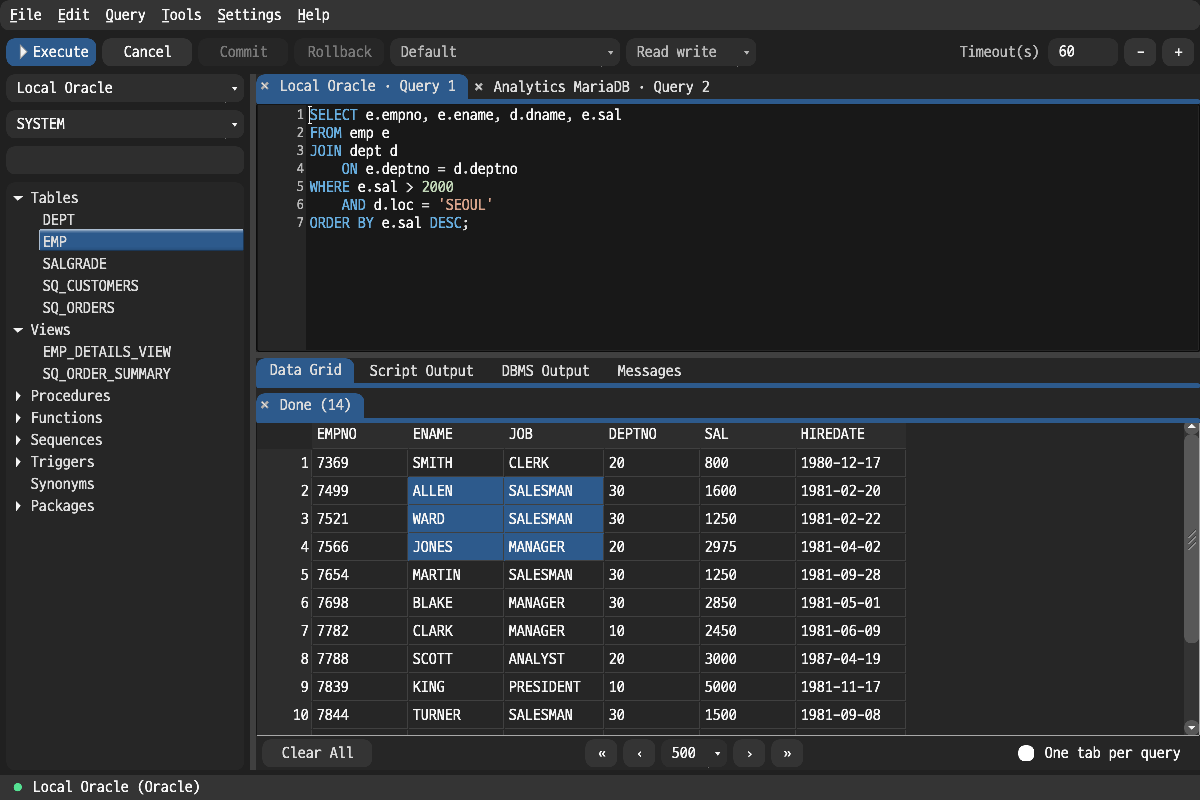
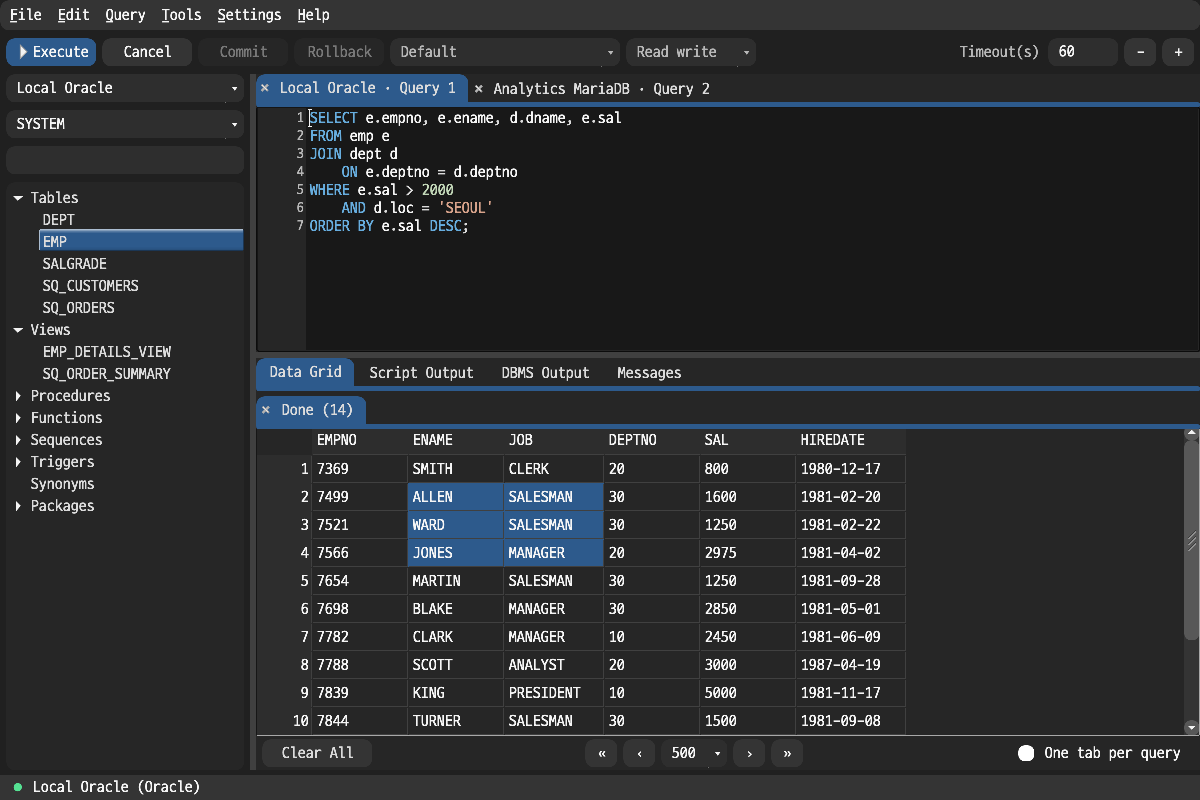
style: unify tab header heights

diff --git a/src/bin/capture_feature_tour.rs b/src/bin/capture_feature_tour.rs
@@ -10,7 +10,9 @@ use fltk::{
 use space_query::{
     db::{ColumnInfo, QueryResult},
     ui::{
-        apply_global_default_font, constants::BUTTON_HEIGHT, log_viewer::LogViewerDialog,
+        apply_global_default_font,
+        constants::{BUTTON_HEIGHT, TAB_HEADER_HEIGHT},
+        log_viewer::LogViewerDialog,
         profile_by_name, show_settings_dialog, theme, ConnectionDialog, IntellisensePopup,
         MainWindow, QueryHistoryDialog, SignatureLabel, SignatureOverload, SignaturePopup,
     },
@@ -172,11 +174,32 @@ fn verify_control_heights(group: fltk::group::Group, context: &str) {
     }
 }
 
+fn verify_tab_header_heights(group: fltk::group::Group, context: &str) {
+    for child in group.into_iter() {
+        if let Some(tabs) = fltk::group::Tabs::from_dyn_widget(&child) {
+            for tab_child in tabs.clone().into_iter() {
+                let actual_height = tab_child.y().saturating_sub(tabs.y());
+                if actual_height != TAB_HEADER_HEIGHT {
+                    fail(format!(
+                        "{context} tab {:?} has header height {actual_height}, expected {TAB_HEADER_HEIGHT}",
+                        tab_child.label()
+                    ));
+                }
+            }
+        }
+
+        if let Some(group) = child.as_group() {
+            verify_tab_header_heights(group, context);
+        }
+    }
+}
+
 fn capture_active_dialog(expected_label: &str, path: &str) {
     let mut window = window_by_label(expected_label)
         .unwrap_or_else(|| fail(format!("missing dialog: {expected_label}")));
     if let Some(group) = window.as_group() {
-        verify_control_heights(group, expected_label);
+        verify_control_heights(group.clone(), expected_label);
+        verify_tab_header_heights(group, expected_label);
     }
     let (data, width, height) = capture_complete_rgb(&mut window);
     save_ppm(path, &data, width, height);
@@ -448,6 +471,7 @@ fn capture_object_browser(main_window: &mut MainWindow) {
         .as_group()
         .unwrap_or_else(|| fail("main window group is missing"));
     verify_control_heights(main_group.clone(), "main window");
+    verify_tab_header_heights(main_group.clone(), "main window");
     let mut filter = visible_filter_input(main_group.clone())
         .unwrap_or_else(|| fail("visible object browser filter input is missing"));
     let mut scope = None;

diff --git a/src/ui/constants.rs b/src/ui/constants.rs
@@ -17,7 +17,7 @@ pub const TRANSACTION_ISOLATION_CHOICE_WIDTH: i32 = 230;
 /// Width for the transaction access mode selector in the query toolbar.
 pub const TRANSACTION_ACCESS_CHOICE_WIDTH: i32 = 130;
 
-/// Uniform height for buttons, choices, single-line inputs, and checkboxes.
+/// Uniform height for interactive controls and tab headers across the app.
 pub const BUTTON_HEIGHT: i32 = 28;
 
 // -- Form row heights --
@@ -89,10 +89,10 @@ pub const RESULT_CELL_MAX_DISPLAY_CHARS_MIN: u32 = 8;
 /// Maximum allowed maximum for result cell preview length.
 pub const RESULT_CELL_MAX_DISPLAY_CHARS_MAX: u32 = 10_000;
 
-// -- Result tabs --
+// -- Tabs --
 
-/// Height of tab headers in the result tabs widget.
-pub const TAB_HEADER_HEIGHT: i32 = 25;
+/// Uniform height of every tab header in the app.
+pub const TAB_HEADER_HEIGHT: i32 = BUTTON_HEIGHT;
 
 /// Inner padding for the script output display.
 pub const SCRIPT_OUTPUT_PADDING: i32 = 6;
